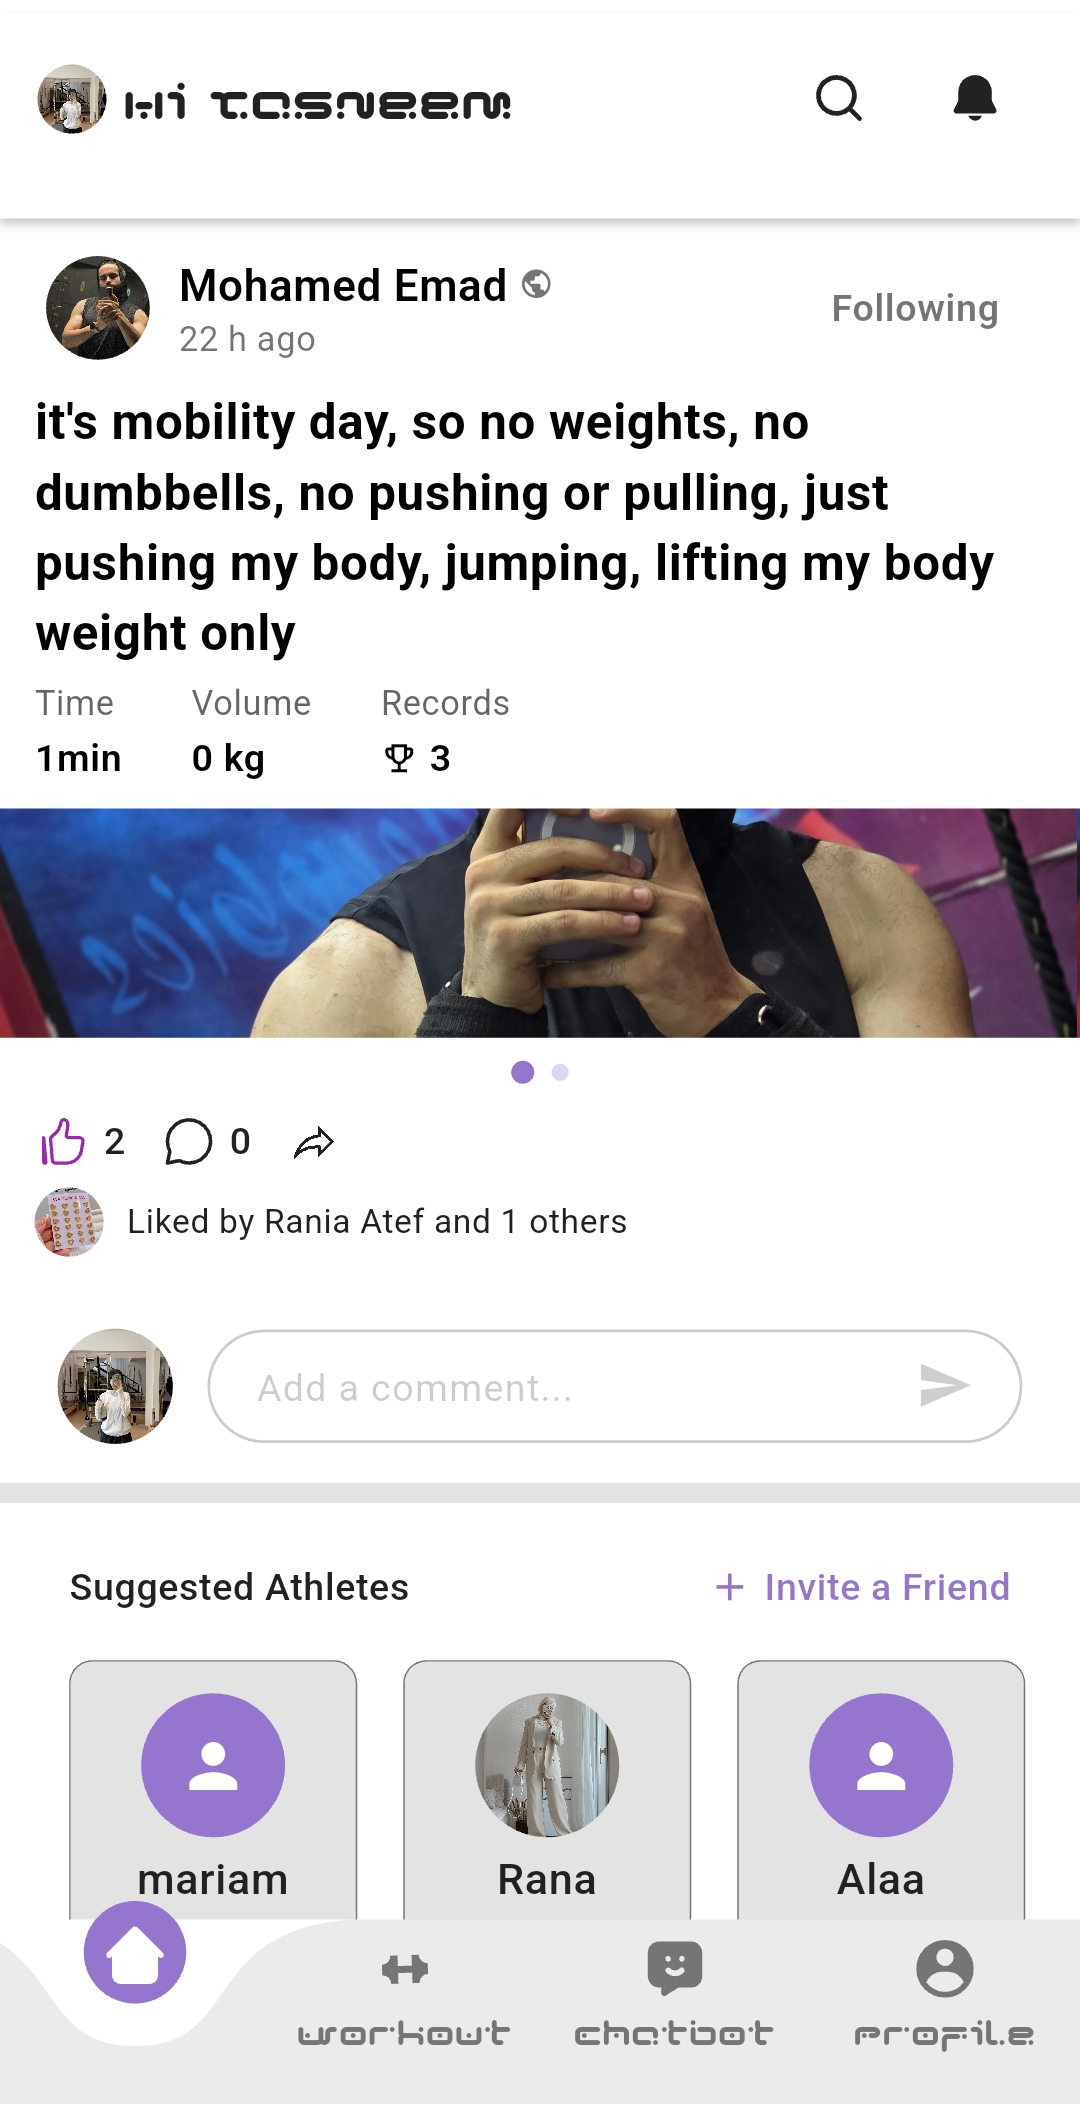
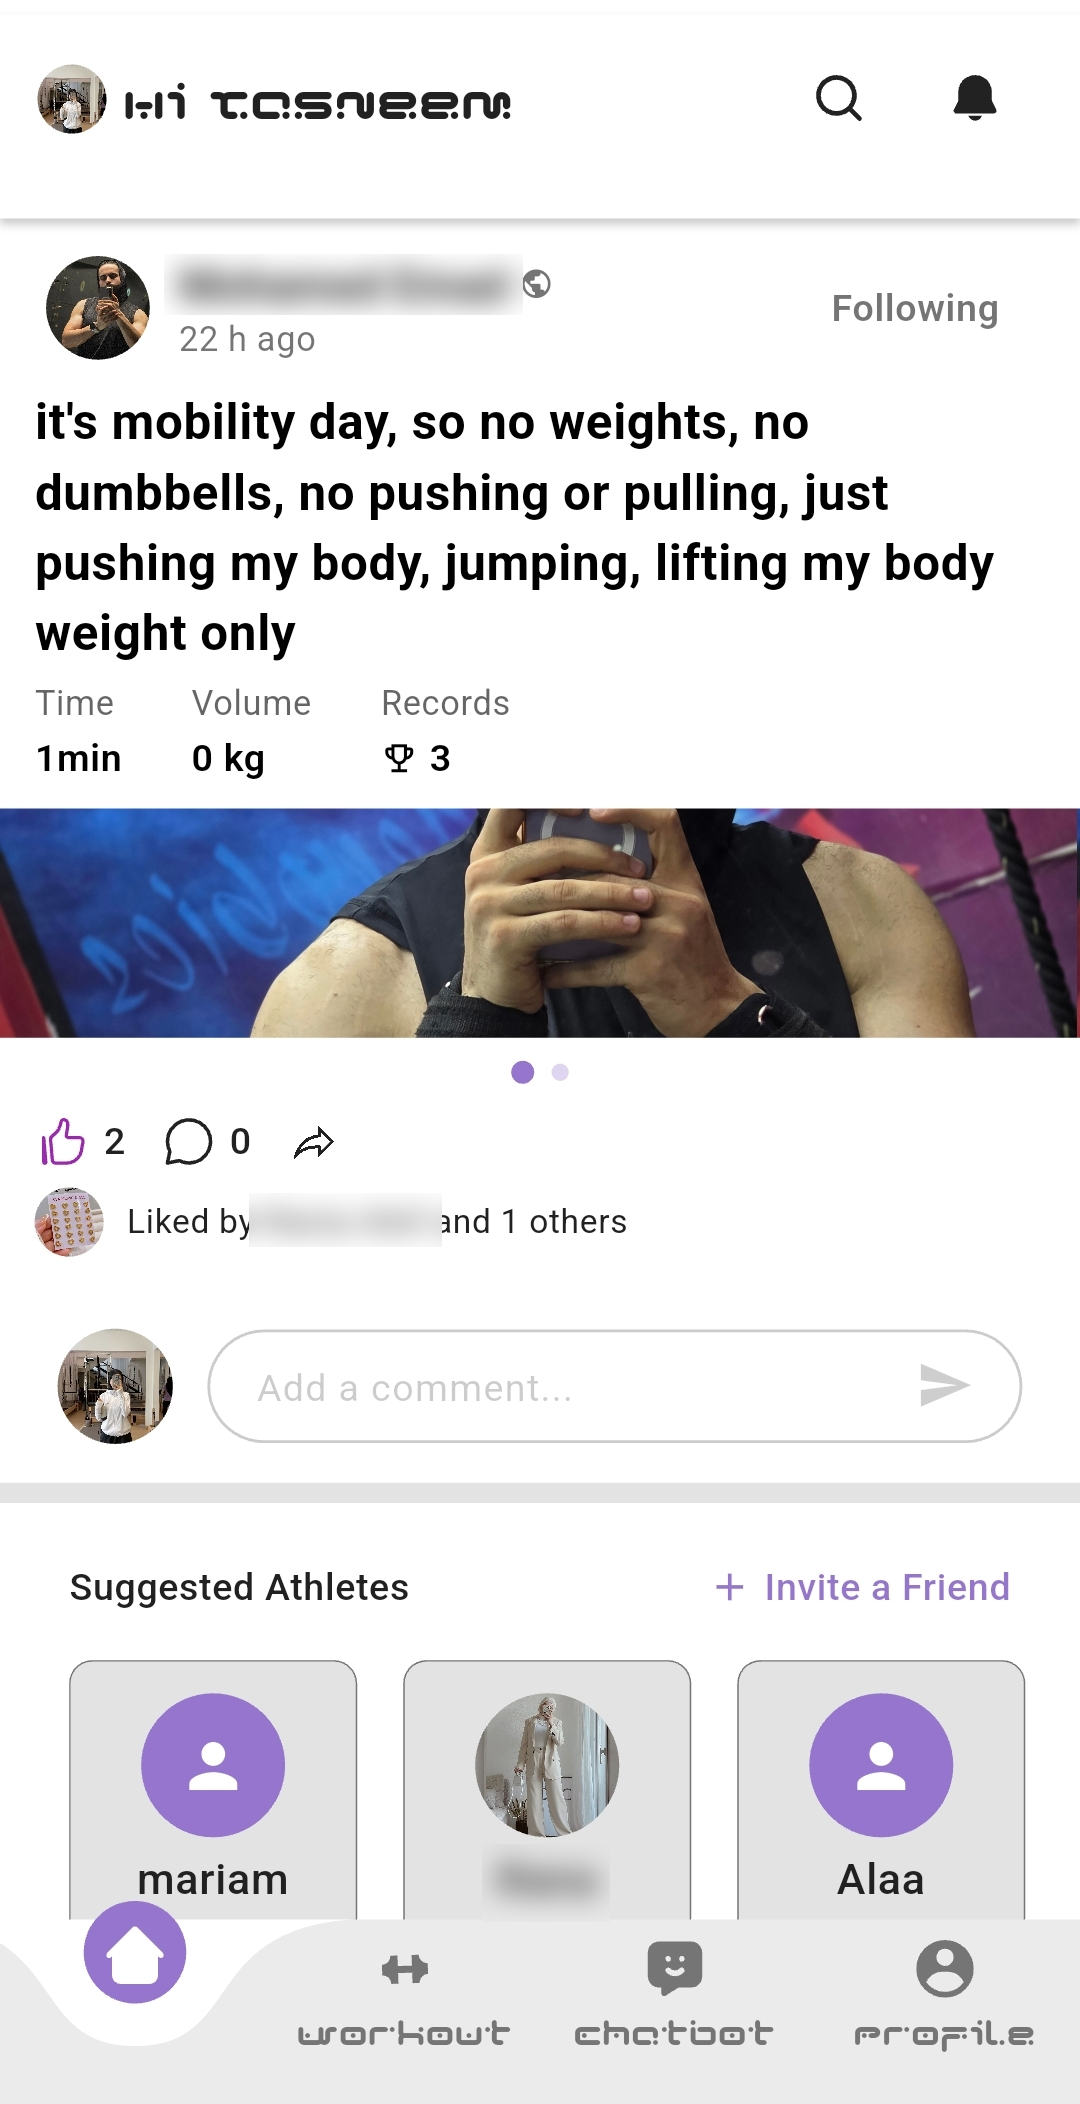
Blur team member names in screenshots; add recommendations highlight

Changed region(s): [[0.1528, 0.1236, 0.4889, 0.1545], [0.2139, 0.5561, 0.4278, 0.587], [0.4583, 0.865, 0.55, 0.9268]]

diff --git a/README.md b/README.md
@@ -85,6 +85,18 @@ As the Flutter developer behind the mobile app, my work included:
 
 ---
 
+## 🎯 Personalized Workout Recommendations
+
+AutoGym recommends workout programs and routines personalized to each user's level, equipment, and goals:
+
+<p align="center">
+  <img src="assets/17.jpeg" width="300" alt="Recommended workout programs"/>
+  &nbsp;&nbsp;&nbsp;
+  <img src="assets/19.jpeg" width="300" alt="Recommended program details"/>
+</p>
+
+---
+
 ## 📸 App Screenshots
 
 | ![](assets/1.jpeg)  | ![](assets/2.jpeg)  | ![](assets/3.jpeg)  | ![](assets/4.jpeg)  |
